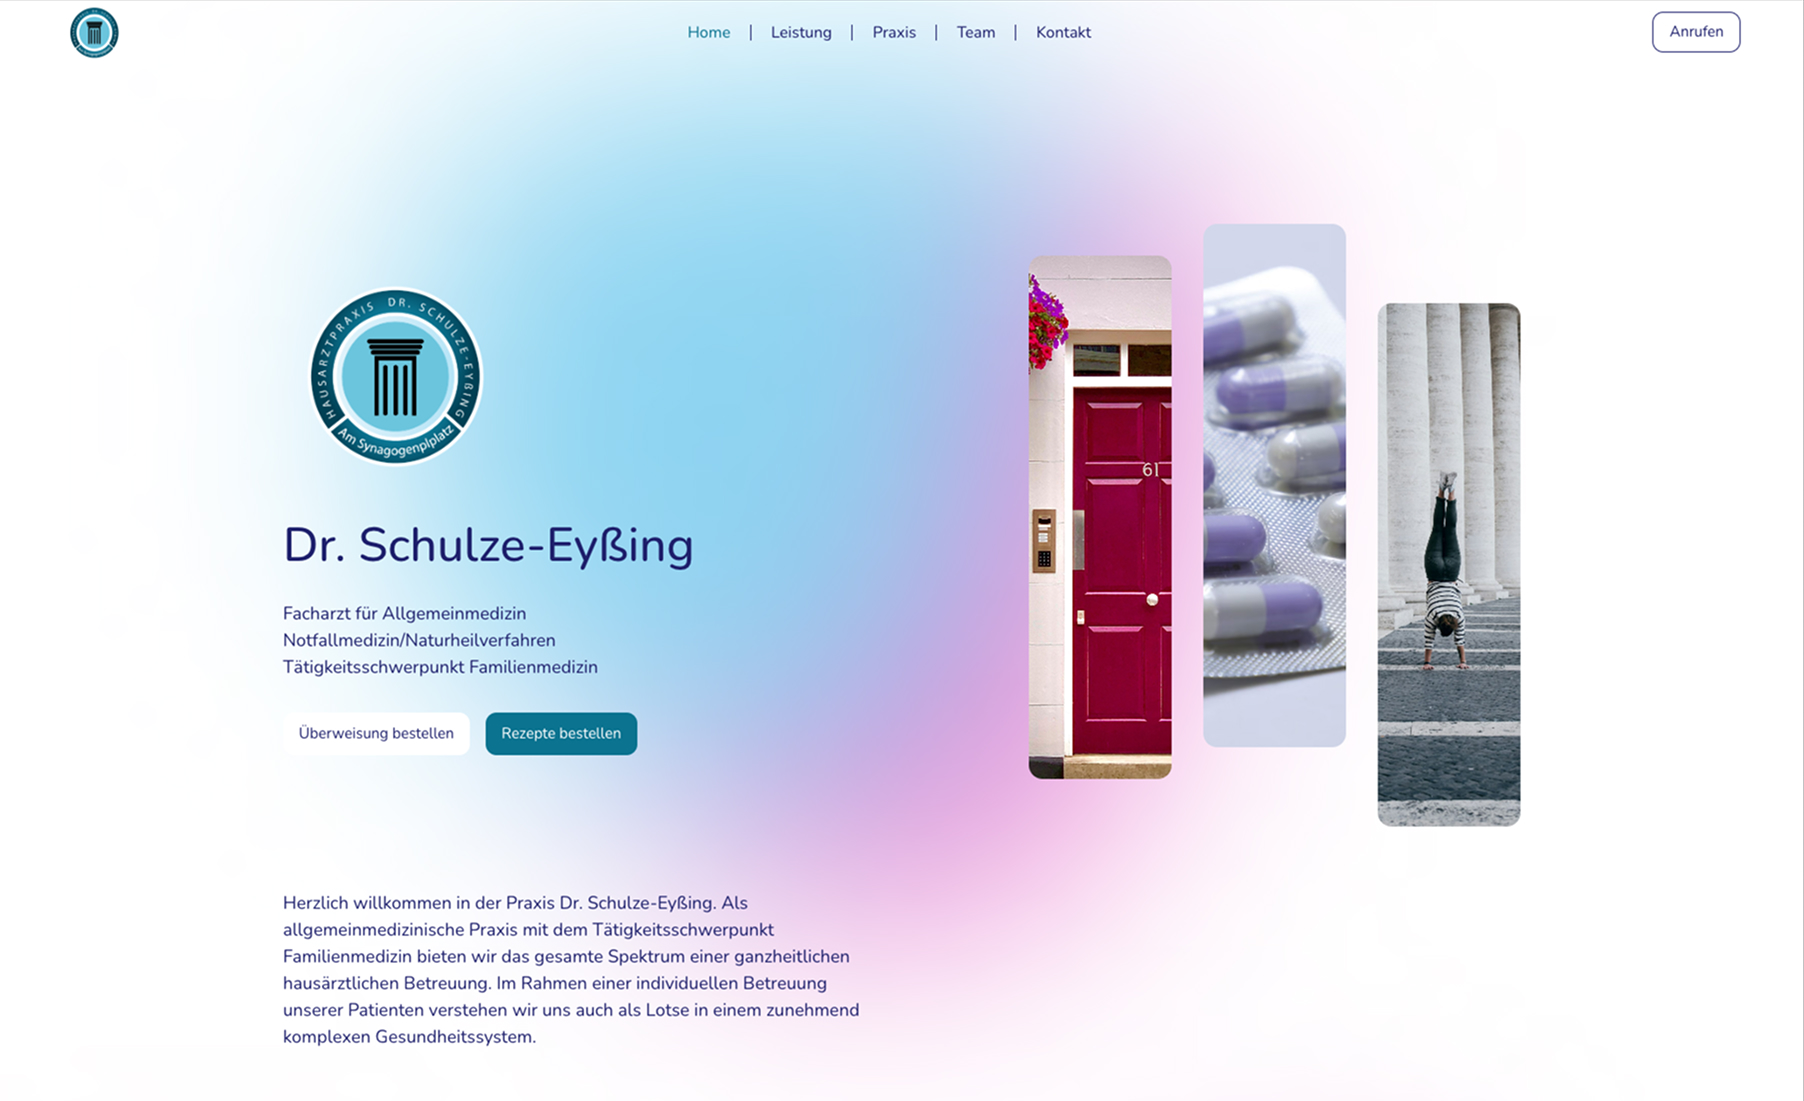
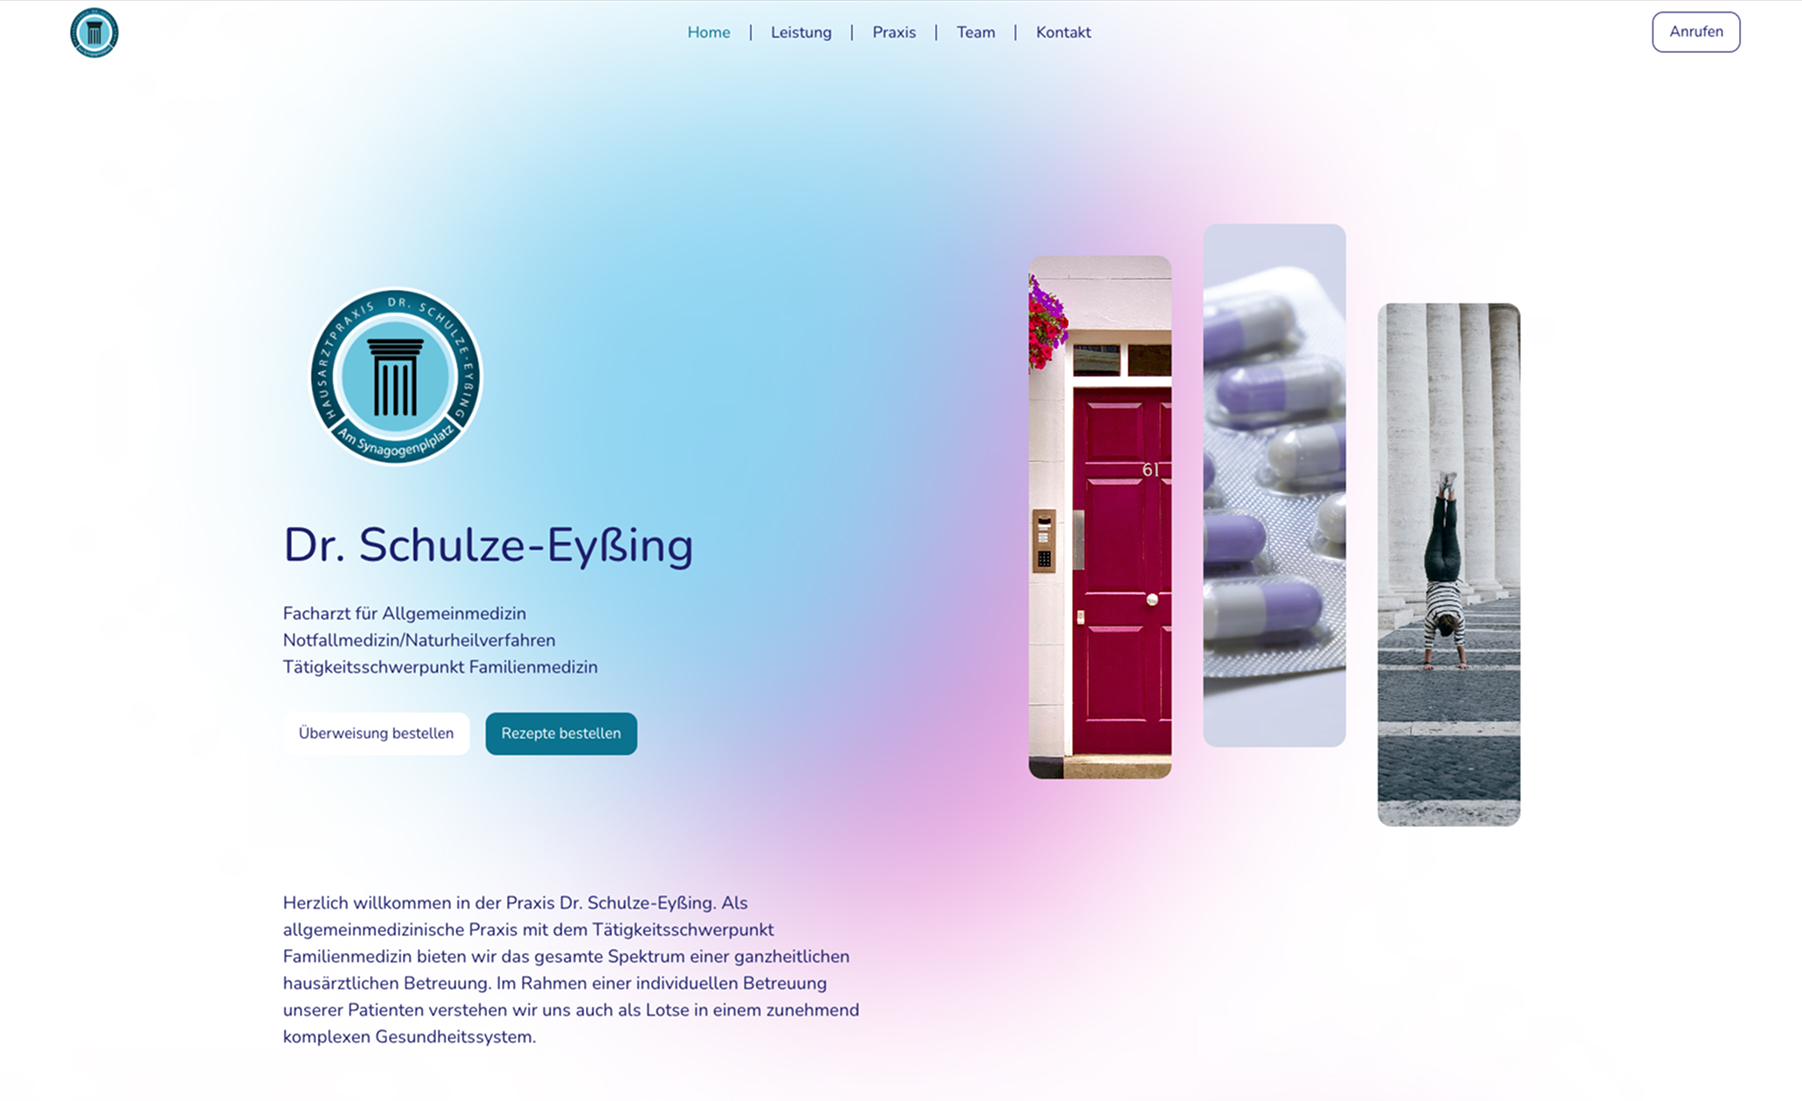
Change background whitemode and remove border for portfolio picture

diff --git a/assets/index.css b/assets/index.css
@@ -21,7 +21,7 @@
     --img-border: var(--gray-7);
     
     --border-radius-card: 16px;
-    --shadow-card: rgba(149, 157, 165, 0.2) 0px 8px 24px;
+    --shadow-card: rgba(149, 157, 165, 0.2) 0px 8px 50px -12px;
 }
 
 .light-mode {
@@ -37,7 +37,7 @@
     --gray-9: #D9D9D9;  
     --gray-10: #FFFFFF;
     
-    --background: var(--gray-10);
+    --background: #f3f3f3;
     --link-hover: var(--gray-7);
     --line: var(--gray-10);
     --img-border: var(--gray-9);

diff --git a/components/PortfolioItem.vue b/components/PortfolioItem.vue
@@ -58,7 +58,6 @@ img {
 
 .portfolio-image {
     border-radius: var(--border-radius-card);
-    border: 1px solid var(--img-border);
     box-shadow: var(--shadow-card);
 }
 
